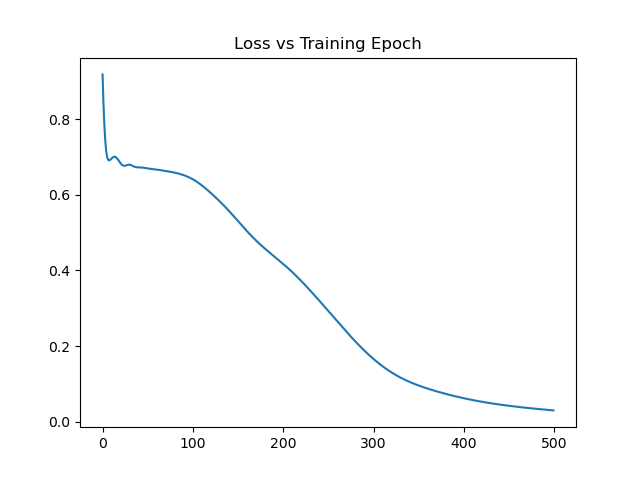
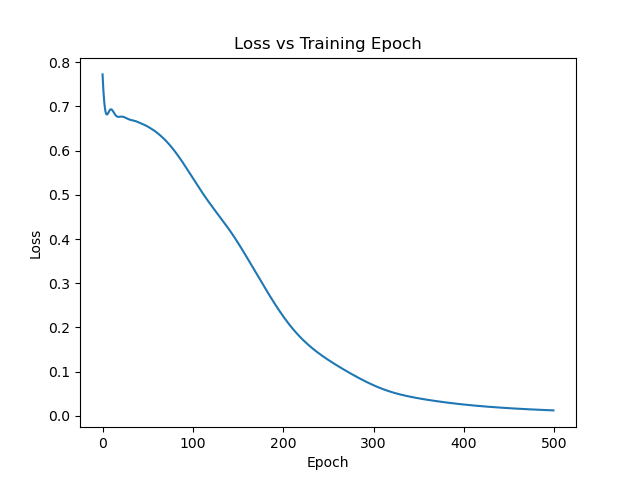
Added comments, fixed saving, updated readme

diff --git a/Assignment3/main.py b/Assignment3/main.py
@@ -5,34 +5,42 @@ import torch.nn as nn
 import torch.optim as optim
 import argparse, json
 
+#class for generating to help generate vector field (i.e. dataset)
 class VecField:
     def __init__(self,dxdt,dydt):
         self.u = dxdt
         self.v = dydt
+
+        #vectorized verzons to help plot quiver plot
         self.uvec = np.vectorize(dxdt)
         self.vvec = np.vectorize(dydt)
         
     def dfdt(self,x,y):
         return [self.u(x,y),self.v(x,y)]
 
+#OdeNet essentially tries to learn the vector field \vec{f(x,y)}. 
 class OdeNet(nn.Module):
     def __init__(self, vectorfield, lb = (-2,-2), ub = (2,2), h = 0.01, lr = 0.01):
         super(OdeNet,self).__init__()
+
+        #lowerbou, uberbound, "stepsize", vectorfield
         self.lb = lb 
         self.ub = ub 
         self.h = h
         self.vectorfield = vectorfield
         
-
+        #neural network
         self.net = nn.Sequential(
             nn.Linear(2,50),
             nn.Tanh(),
             nn.Linear(50,2)
         )
         
-        self.optimizer = optim.SGD(self.parameters(),lr = lr)
+        #SGD for optimizer
+        self.optimizer = optim.Adam(self.parameters(),lr = lr)
         self.loss = nn.MSELoss(reduction = 'mean')
 
+        #generate training coordinates 
         self.trcords()
 
     def forward(self,x):
@@ -47,10 +55,10 @@ class OdeNet(nn.Module):
         self.optimizer.zero_grad()
         
         
-        prediction = self.forward(self.D) #used to calculate loss
+        prediction = self.forward(self.D) #used to calculate loss, predicts value of dfdt at x,y
 
         #calculate loss and propagate
-        loss = self.loss(prediction, self.L)
+        loss = self.loss(prediction, self.L) #MSE between true dfdt and prediction
         loss.backward()
         self.optimizer.step()
             
@@ -79,12 +87,15 @@ class OdeNet(nn.Module):
         print("Final Epoch: [" + str(i+1) + "/" + str(num_epoch) + "]")
         print("Training Loss: " + str(tloss))
         
-        
+        #plot and save
         mpl.plot(np.arange(num_epoch),trainloss)
         mpl.title("Loss vs Training Epoch")
-        mpl.savefig("plots/loss"+str(exp)+".png")
+        mpl.xlabel("Epoch")
+        mpl.ylabel("Loss")
         
-
+        mpl.savefig("plots/loss"+str(exp)+".png")
+        mpl.show(block=False)
+    #evaluate solution (add gradient with a set time-step to current position and repeat nsteps)
     def evaluate(self, xi, nstep):
         self.eval()
         positions = [xi]
@@ -107,13 +118,15 @@ class OdeNet(nn.Module):
         
         mpl.plot(xs,ys)
         mpl.plot(xs[0],ys[0],'ro')
-    
+        mpl.xlabel("xs")
+        mpl.ylabel("ys")
         
        
         
 
 
     def trcords(self):
+        #generate training coordinates and labels
         xs = np.linspace(self.lb[0],self.ub[0],int((self.ub[0]-self.lb[0])//(self.h/2)))
         ys = np.linspace(self.lb[1],self.ub[1],int((self.ub[1]-self.lb[1])//(self.h/2)))
         D = []
@@ -124,8 +137,8 @@ class OdeNet(nn.Module):
                     continue
                 D.append([x,y])
                 L.append(self.vectorfield.dfdt(x,y))
-        self.D = torch.tensor(D).float()
-        self.L = torch.tensor(L).float()
+        self.D = torch.tensor(D).float() #coordinates
+        self.L = torch.tensor(L).float() #labels
 
     def quiverplot(self):
         grid = np.meshgrid(np.linspace(self.lb[0],self.ub[0],50),np.linspace(self.lb[1],self.ub[1],50),indexing = "xy")
@@ -144,8 +157,9 @@ class OdeNet(nn.Module):
             mpl.title("Test Trajectory " + str(j))
             
             path = "plots/exp"+str(exp)+"testraj"+str(j)+".png"
-            mpl.savefig(path)
             
+            mpl.savefig(path)
+            mpl.show(block=False)
             j+=1
         
 
@@ -166,9 +180,9 @@ if __name__ == '__main__':
     u = lambda x,y : eval(dictionary["field"]["1"]["xfield"])
     v = lambda x,y : eval(dictionary["field"]["1"]["yfield"])
 
-    test = VecField(u,v)
+    test1 = VecField(u,v)
 
-    model = OdeNet(test, lr = dictionary["lr"])
+    model = OdeNet(test1, lr = dictionary["lr"])
 
     model.trcords()
     model.run(dictionary["num_epoch"], 1)
@@ -178,9 +192,9 @@ if __name__ == '__main__':
     u = lambda x,y : eval(dictionary["field"]["2"]["xfield"])
     v = lambda x,y : eval(dictionary["field"]["2"]["yfield"])
 
-    test = VecField(u,v)
+    test2 = VecField(u,v)
 
-    model = OdeNet(test, lr = dictionary["lr"])
+    model = OdeNet(test2, lr = dictionary["lr"])
 
     model.trcords()
     model.run(dictionary["num_epoch"], 2)

diff --git a/Assignment 2/main.py b/Assignment 2/main.py
@@ -1,3 +1,4 @@
+
 # Write your assignment here
 
 #import needed modules
@@ -83,8 +84,8 @@ class EvenNet(nn.Module):
     # Use if the same network is trained multiple times.
     def reset(self):
         self.inputlayer.reset_parameters()
-        self.hl1.reset_parameters()
-        self.hl2.reset_parameters()
+        self.hstack.reset_parameters()
+        
         self.outlayer.reset_parameters()
 
     

diff --git a/Assignment3/README.md b/Assignment3/README.md
@@ -12,3 +12,5 @@ To run `main.py`, use
 ```sh
 python3 main.py parameters.json [-1.0,-1.0] [1.0,1.0] 3
 ```
+
+This model attempts to learn the value of dfdt at (x,y) and adds it scaled by some time step to (x,y) multiple times to plot a solution trajectory. Initially the model itself was going to be a simple linear layer however, it was not able to pick up on the nonlinearities of the 2nd field. So I added an extra layer with moe depth and added a tanh activation function. This version was able to learn both fields. Another thing to note is that Adam is much better at optimizing this loss function than SGD. SGD was not able to optimize the model enough for the 2nd field.
